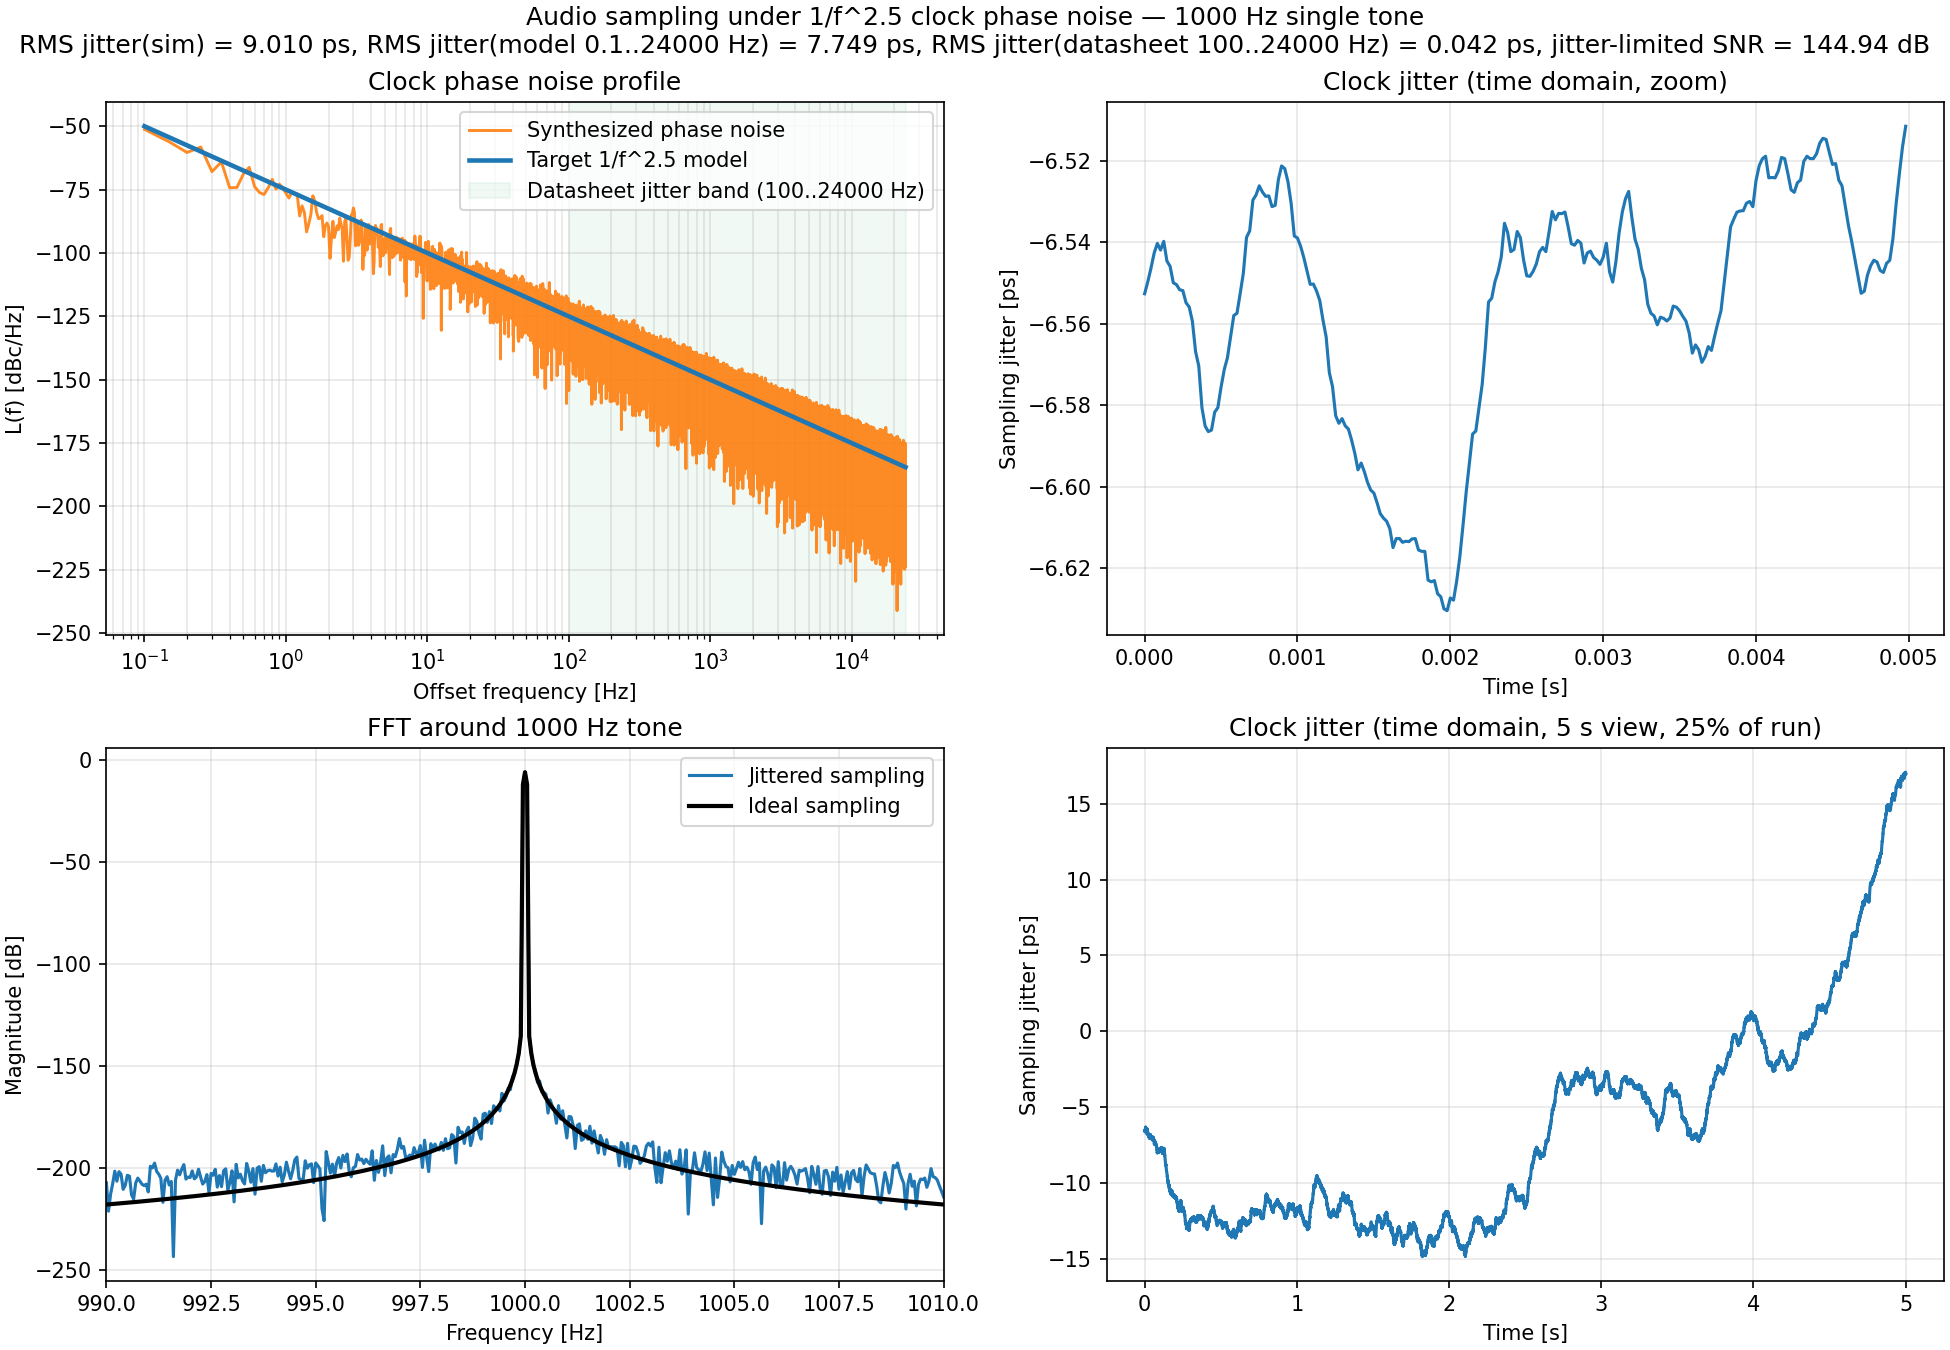
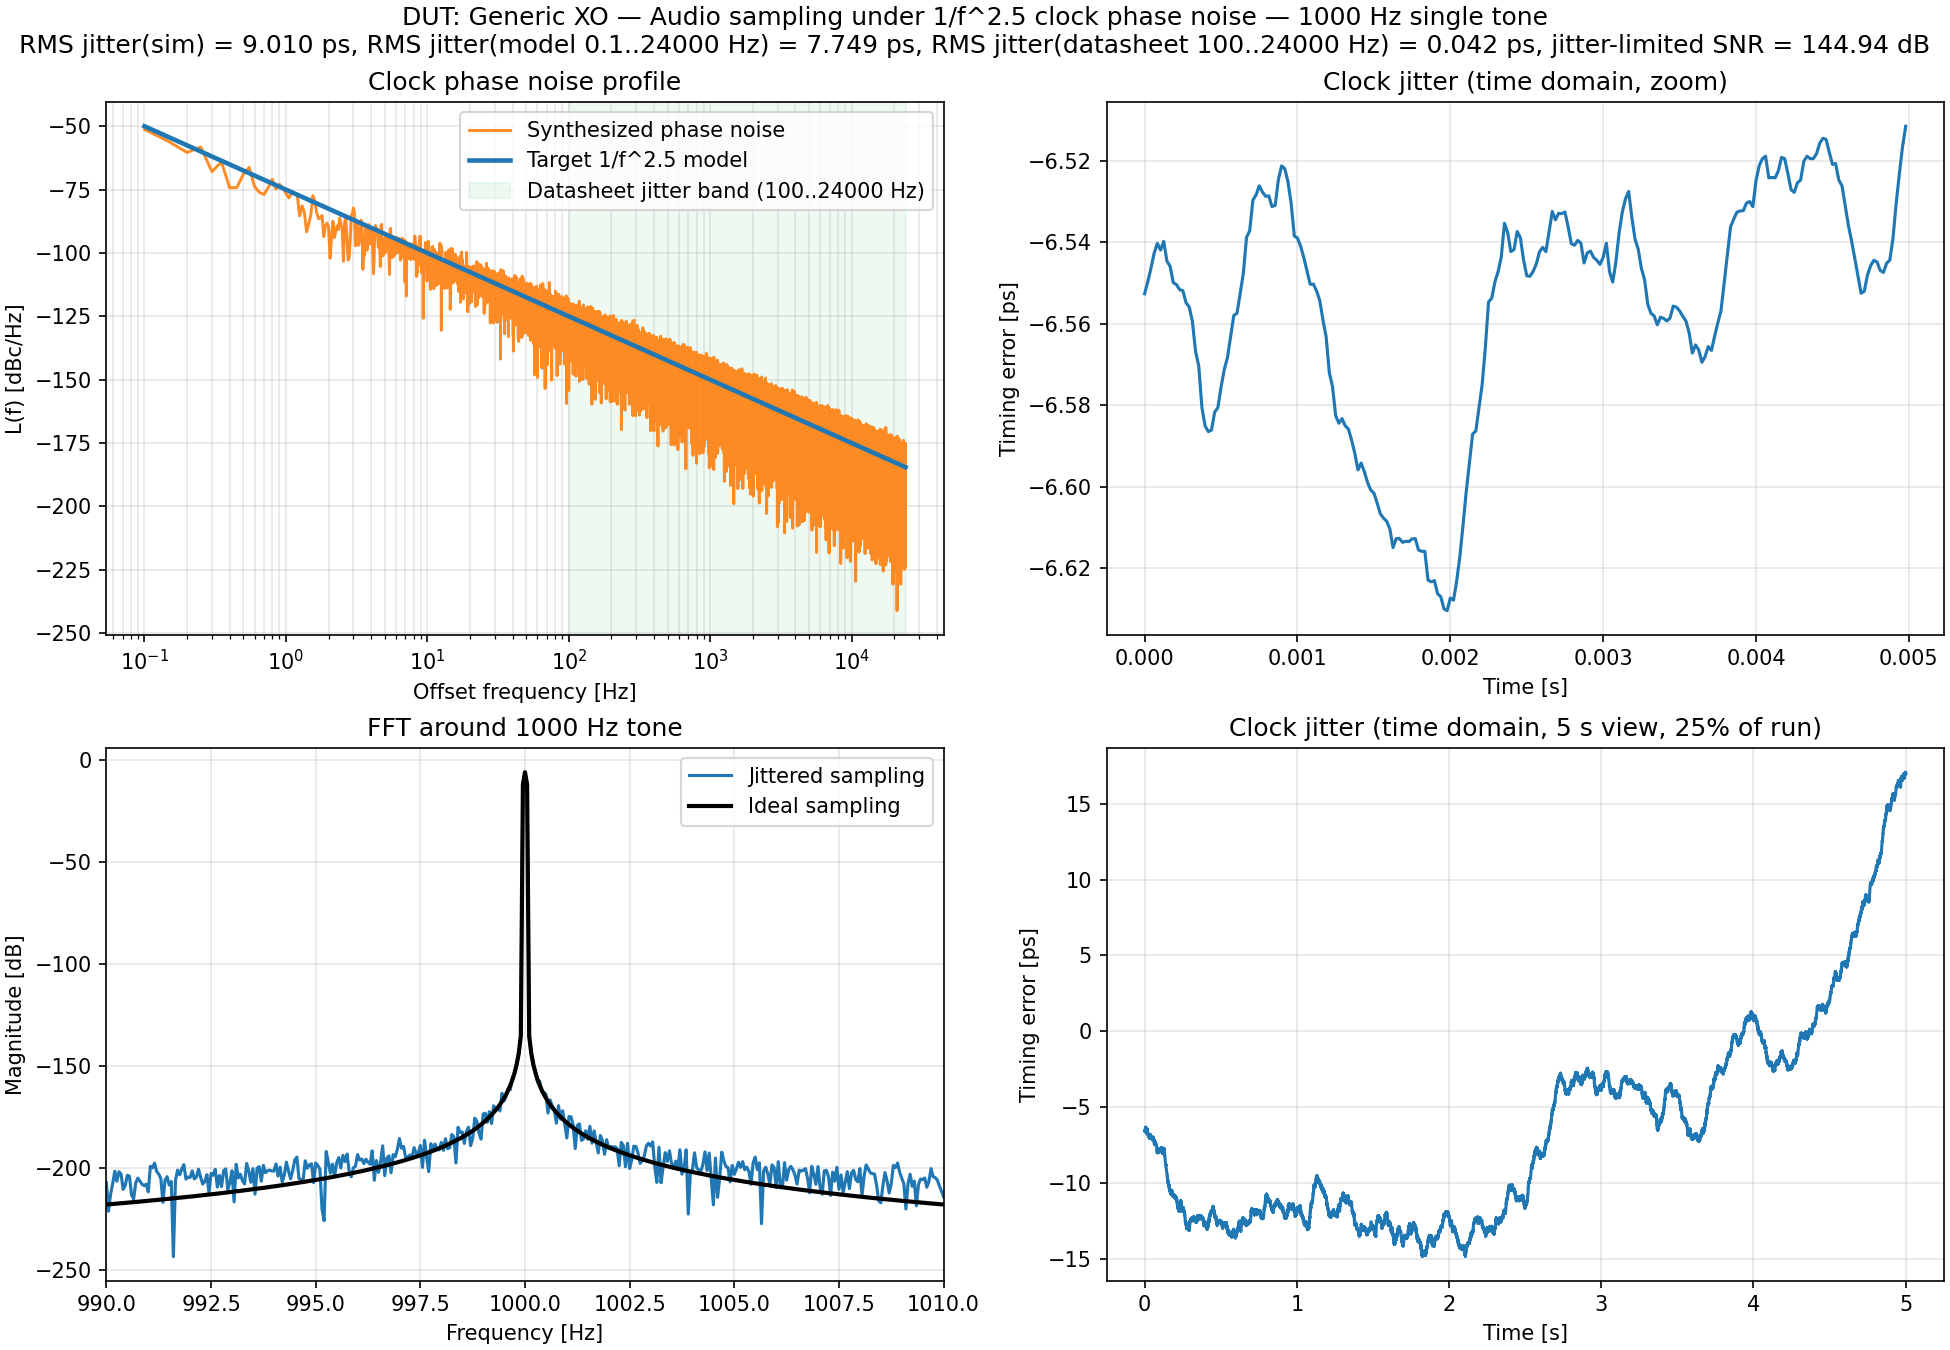
Cleaned up

Changed region(s): [[0.2154, 0.0, 0.8, 0.0311], [0.5231, 0.6844, 0.5538, 0.8089], [0.4923, 0.2178, 0.5231, 0.3422]]

diff --git a/clock_audio_jitter.py b/clock_audio_jitter.py
@@ -29,6 +29,7 @@ def load_config(config_path):
     plots = raw.get("plots", {})
 
     cfg = {
+        "dut_name": raw.get("dut_name", None),
         "output_path": Path(plots.get("output_path", DEFAULT_OUTPUT_PATH)),
         "fs_audio_hz": float(audio.get("fs_audio_hz", 48_000.0)),
         "duration_s": float(audio.get("duration_s", 20.0)),
@@ -57,8 +58,10 @@ def load_config(config_path):
         ],
         "jitter_integration_fmin_hz": float(integration.get("fmin_hz", 0.1)),
         "jitter_integration_fmax_hz": float(integration.get("fmax_hz", 24_000.0)),
-        "datasheet_jitter_fmin_hz": float(integration.get("datasheet_fmin_hz", 100.0)),
-        "datasheet_jitter_fmax_hz": float(integration.get("datasheet_fmax_hz", integration.get("fmax_hz", 24_000.0))),
+        "bw_limited_jitter_fmin_hz": float(integration.get("bw_limited_fmin_hz", 100.0)),
+        "bw_limited_jitter_fmax_hz": float(
+            integration.get("bw_limited_fmax_hz", integration.get("fmax_hz", 24_000.0))
+        ),
     }
 
     if cfg["multitone_mode"] not in {"single", "twotone", "comb"}:
@@ -69,10 +72,17 @@ def load_config(config_path):
         raise ValueError("audio.fs_audio_hz, audio.duration_s, and audio.clock_hz must be > 0")
     if cfg["jitter_integration_fmin_hz"] <= 0.0:
         raise ValueError("integration.fmin_hz must be > 0")
-    if cfg["datasheet_jitter_fmin_hz"] <= 0.0:
-        raise ValueError("integration.datasheet_fmin_hz must be > 0")
-    if cfg["datasheet_jitter_fmax_hz"] <= cfg["datasheet_jitter_fmin_hz"]:
-        raise ValueError("integration.datasheet_fmax_hz must be > integration.datasheet_fmin_hz")
+    if cfg["bw_limited_jitter_fmin_hz"] <= 0.0:
+        raise ValueError("integration.bw_limited_fmin_hz must be > 0")
+    if cfg["bw_limited_jitter_fmax_hz"] <= cfg["bw_limited_jitter_fmin_hz"]:
+        raise ValueError("integration.bw_limited_fmax_hz must be > integration.bw_limited_fmin_hz")
+
+    dut_name = cfg["dut_name"]
+    if dut_name is None:
+        cfg["dut_name"] = None
+    else:
+        dut_name = str(dut_name).strip()
+        cfg["dut_name"] = dut_name if dut_name else None
 
     return cfg
 
@@ -216,6 +226,7 @@ def fft_db(signal, fs_hz):
 def main(config_path=DEFAULT_CONFIG_PATH, show_plot=True):
     cfg = load_config(config_path)
 
+    dut_name = cfg["dut_name"]
     output_path = cfg["output_path"]
     fs_audio_hz = cfg["fs_audio_hz"]
     duration_s = cfg["duration_s"]
@@ -243,8 +254,8 @@ def main(config_path=DEFAULT_CONFIG_PATH, show_plot=True):
     piecewise_phase_noise_points = cfg["piecewise_phase_noise_points"]
     jitter_integration_fmin_hz = cfg["jitter_integration_fmin_hz"]
     jitter_integration_fmax_hz = cfg["jitter_integration_fmax_hz"]
-    datasheet_jitter_fmin_hz = cfg["datasheet_jitter_fmin_hz"]
-    datasheet_jitter_fmax_hz = cfg["datasheet_jitter_fmax_hz"]
+    bw_limited_jitter_fmin_hz = cfg["bw_limited_jitter_fmin_hz"]
+    bw_limited_jitter_fmax_hz = cfg["bw_limited_jitter_fmax_hz"]
 
     rng = np.random.default_rng(rng_seed)
     effective_fmax_hz = min(jitter_integration_fmax_hz, fs_audio_hz / 2.0)
@@ -296,19 +307,19 @@ def main(config_path=DEFAULT_CONFIG_PATH, show_plot=True):
         model_sphi[jitter_model_mask],
         clock_hz,
     )
-    datasheet_effective_fmax_hz = min(datasheet_jitter_fmax_hz, fs_audio_hz / 2.0)
-    datasheet_jitter_mask = (
-        (model_freq_bins >= datasheet_jitter_fmin_hz)
-        & (model_freq_bins <= datasheet_effective_fmax_hz)
+    bw_limited_effective_fmax_hz = min(bw_limited_jitter_fmax_hz, fs_audio_hz / 2.0)
+    bw_limited_jitter_mask = (
+        (model_freq_bins >= bw_limited_jitter_fmin_hz)
+        & (model_freq_bins <= bw_limited_effective_fmax_hz)
     )
-    if np.any(datasheet_jitter_mask):
-        model_jitter_datasheet_rms_s = model_rms_jitter_seconds_from_psd(
-            model_freq_bins[datasheet_jitter_mask],
-            model_sphi[datasheet_jitter_mask],
+    if np.any(bw_limited_jitter_mask):
+        model_jitter_bw_limited_rms_s = model_rms_jitter_seconds_from_psd(
+            model_freq_bins[bw_limited_jitter_mask],
+            model_sphi[bw_limited_jitter_mask],
             clock_hz,
         )
     else:
-        model_jitter_datasheet_rms_s = np.nan
+        model_jitter_bw_limited_rms_s = np.nan
 
     # Resolve active tone list from mode
     if multitone_mode == "comb":
@@ -375,14 +386,14 @@ def main(config_path=DEFAULT_CONFIG_PATH, show_plot=True):
         linewidth=2.2,
         zorder=8,
     )
-    if datasheet_effective_fmax_hz > datasheet_jitter_fmin_hz:
+    if bw_limited_effective_fmax_hz > bw_limited_jitter_fmin_hz:
         axes[0, 0].axvspan(
-            datasheet_jitter_fmin_hz,
-            datasheet_effective_fmax_hz,
+            bw_limited_jitter_fmin_hz,
+            bw_limited_effective_fmax_hz,
             color="#A6E3BC",
             alpha=0.20,
             zorder=1,
-            label=f"Datasheet jitter band ({datasheet_jitter_fmin_hz:g}..{datasheet_effective_fmax_hz:g} Hz)",
+            label=f"BW-limited jitter band ({bw_limited_jitter_fmin_hz:g}..{bw_limited_effective_fmax_hz:g} Hz)",
         )
     axes[0, 0].set_xscale("log")
     axes[0, 0].set_xlabel("Offset frequency [Hz]")
@@ -397,7 +408,7 @@ def main(config_path=DEFAULT_CONFIG_PATH, show_plot=True):
     overview_duration_s = overview_count / fs_audio_hz
     axes[0, 1].plot(time_s[:zoom_count], jitter_s[:zoom_count] * 1e12)
     axes[0, 1].set_xlabel("Time [s]")
-    axes[0, 1].set_ylabel("Sampling jitter [ps]")
+    axes[0, 1].set_ylabel("Timing error [ps]")
     axes[0, 1].set_title("Clock jitter (time domain, zoom)")
     axes[0, 1].grid(True, alpha=0.3)
 
@@ -439,7 +450,7 @@ def main(config_path=DEFAULT_CONFIG_PATH, show_plot=True):
 
     axes[1, 1].plot(time_s[:overview_count], jitter_s[:overview_count] * 1e12)
     axes[1, 1].set_xlabel("Time [s]")
-    axes[1, 1].set_ylabel("Sampling jitter [ps]")
+    axes[1, 1].set_ylabel("Timing error [ps]")
     axes[1, 1].set_title(
         f"Clock jitter (time domain, {overview_duration_s:g} s view, {overview_fraction * 100.0:.0f}% of run)"
     )
@@ -452,11 +463,12 @@ def main(config_path=DEFAULT_CONFIG_PATH, show_plot=True):
     else:
         mode_label = f"{input_tone_hz:.0f} Hz single tone"
     profile_label = f"1/f^{alpha:.1f}" if np.isfinite(alpha) else "piecewise"
+    heading_prefix = f"DUT: {dut_name} — " if dut_name else ""
     fig.suptitle(
-        f"Audio sampling under {profile_label} clock phase noise — {mode_label}\n"
+        f"{heading_prefix}{mode_label}\n"
         f"RMS jitter(sim) = {jitter_rms_s * 1e12:.3f} ps, "
         f"RMS jitter(model {jitter_integration_fmin_hz:g}..{effective_fmax_hz:g} Hz) = {model_jitter_rms_s * 1e12:.3f} ps, "
-        f"RMS jitter(datasheet {datasheet_jitter_fmin_hz:g}..{datasheet_effective_fmax_hz:g} Hz) = {model_jitter_datasheet_rms_s * 1e12:.3f} ps, "
+        f"RMS jitter(bw-limited {bw_limited_jitter_fmin_hz:g}..{bw_limited_effective_fmax_hz:g} Hz) = {model_jitter_bw_limited_rms_s * 1e12:.3f} ps, "
         f"jitter-limited SNR = {snr_jitter_db:.2f} dB"
     )
 

diff --git a/README.md b/README.md
@@ -18,11 +18,11 @@ Output image path: configured by `plots.output_path`
 - Computes and reports:
   - simulation RMS jitter
   - model RMS jitter over analysis band (`integration.fmin_hz..integration.fmax_hz`, Nyquist-clipped)
-  - model RMS jitter over datasheet band (`integration.datasheet_fmin_hz..integration.datasheet_fmax_hz`, Nyquist-clipped)
+  - model RMS jitter over bw-limited band (`integration.bw_limited_fmin_hz..integration.bw_limited_fmax_hz`, Nyquist-clipped)
   - jitter-limited SNR
 - Plots:
   - phase-noise profile (ideal model vs synthesized)
-  - shaded datasheet integration band on the phase-noise plot
+  - shaded bw-limited integration band on the phase-noise plot
   - short jitter zoom
   - FFT around the signal or full-band (multitone/comb)
   - zoomed-out jitter trend for low-frequency behavior
@@ -62,13 +62,13 @@ Generic crystal example output:
 
 ![Generic crystal piecewise single-tone example](images/generic-crystal_piecewise_single_sample.png)
 
-This sample is generated from [configs/generic_crystal.yaml](configs/generic_crystal.yaml). It uses the `piecewise` phase-noise model with typical crystal-like close-in and far-out anchors, then reports jitter over a datasheet-style band (`integration.datasheet_fmin_hz` to `integration.datasheet_fmax_hz`) to mimic a basic oscillator specification near 1 ps RMS.
+This sample is generated from [configs/generic_crystal.yaml](configs/generic_crystal.yaml). It uses the `piecewise` phase-noise model with typical crystal-like close-in and far-out anchors, then reports jitter over a bw-limited band (`integration.bw_limited_fmin_hz` to `integration.bw_limited_fmax_hz`) to mimic a basic oscillator specification near 1 ps RMS.
 
 ## Preset Configurations
 
 Ready-to-run examples are in [configs](configs):
 
-- [configs/generic_crystal.yaml](configs/generic_crystal.yaml): piecewise single-tone profile intended to emulate a generic ~1 ps RMS datasheet-style crystal oscillator
+- [configs/generic_crystal.yaml](configs/generic_crystal.yaml): piecewise single-tone profile intended to emulate a generic ~1 ps RMS bw-limited crystal oscillator
 - [configs/power_law_single.yaml](configs/power_law_single.yaml): single 1 kHz tone with 2-anchor power-law phase noise
 - [configs/piecewise_twotone_19k_20k.yaml](configs/piecewise_twotone_19k_20k.yaml): 19+20 kHz two-tone with piecewise phase-noise profile
 - [configs/piecewise_comb_32tone.yaml](configs/piecewise_comb_32tone.yaml): 32-tone comb with piecewise phase-noise profile
@@ -85,6 +85,10 @@ python clock_audio_jitter.py --config configs/piecewise_comb_32tone.yaml
 ## Configuration Guide
 
 All runtime settings are in `clock_audio_jitter_config.yaml`.
+
+### Top-Level
+
+- `dut_name` (optional): label shown in the figure heading as `DUT: <name>`. If omitted or empty, no DUT label is shown.
 
 ### `audio`
 
@@ -122,7 +126,7 @@ All runtime settings are in `clock_audio_jitter_config.yaml`.
 ### `integration`
 
 - `fmin_hz`, `fmax_hz`: analysis integration band for model RMS jitter
-- `datasheet_fmin_hz`, `datasheet_fmax_hz`: separate datasheet-style integration band
+- `bw_limited_fmin_hz`, `bw_limited_fmax_hz`: separate bw-limited integration band
 
 Both integration bands are limited by Nyquist (`audio.fs_audio_hz / 2`) in the current implementation.
 
@@ -135,8 +139,8 @@ Both integration bands are limited by Nyquist (`audio.fs_audio_hz / 2`) in the c
 ## Notes
 
 - For low-frequency-dominated phase noise, increase `audio.duration_s` and `plots.jitter_overview_fraction`.
-- The phase-noise panel shades the datasheet jitter band with a discrete tint.
+- The phase-noise panel shades the bw-limited jitter band with a discrete tint.
 - The idealized model trace is drawn in the foreground for readability.
-- The summary includes simulation jitter plus both analysis-band and datasheet-band model jitter values.
+- The summary includes simulation jitter plus both analysis-band and bw-limited model jitter values.
 - In `twotone` mode, the script marks the IMD2 difference product in the FFT panel.
 - In `comb` mode, FFT panel shows full audio Nyquist band.
